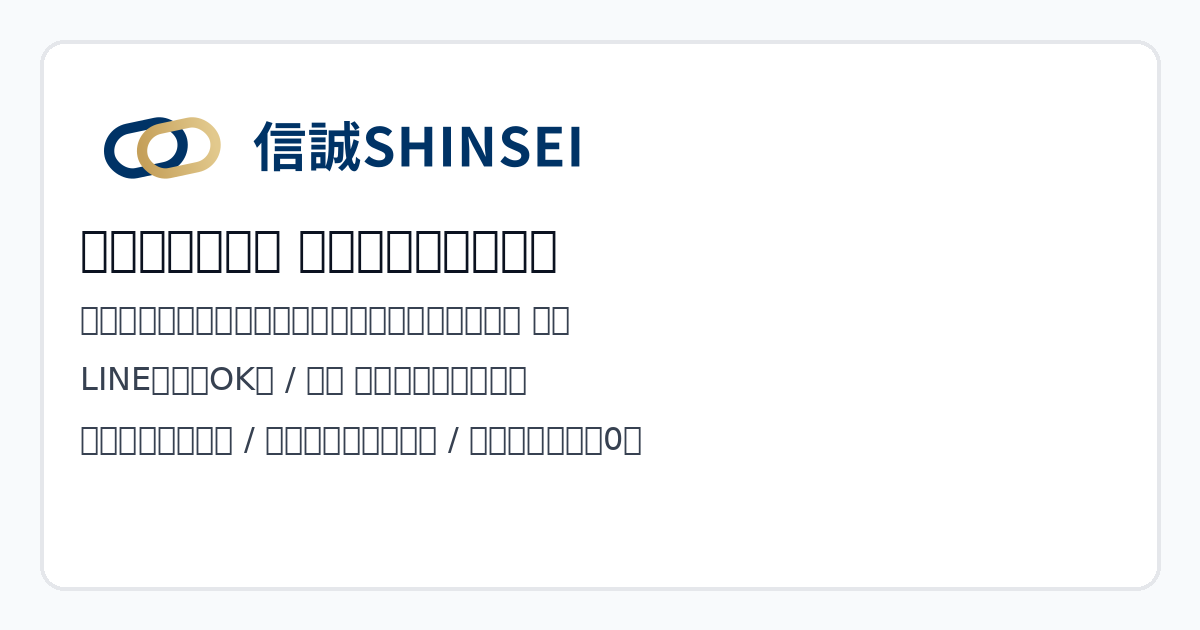
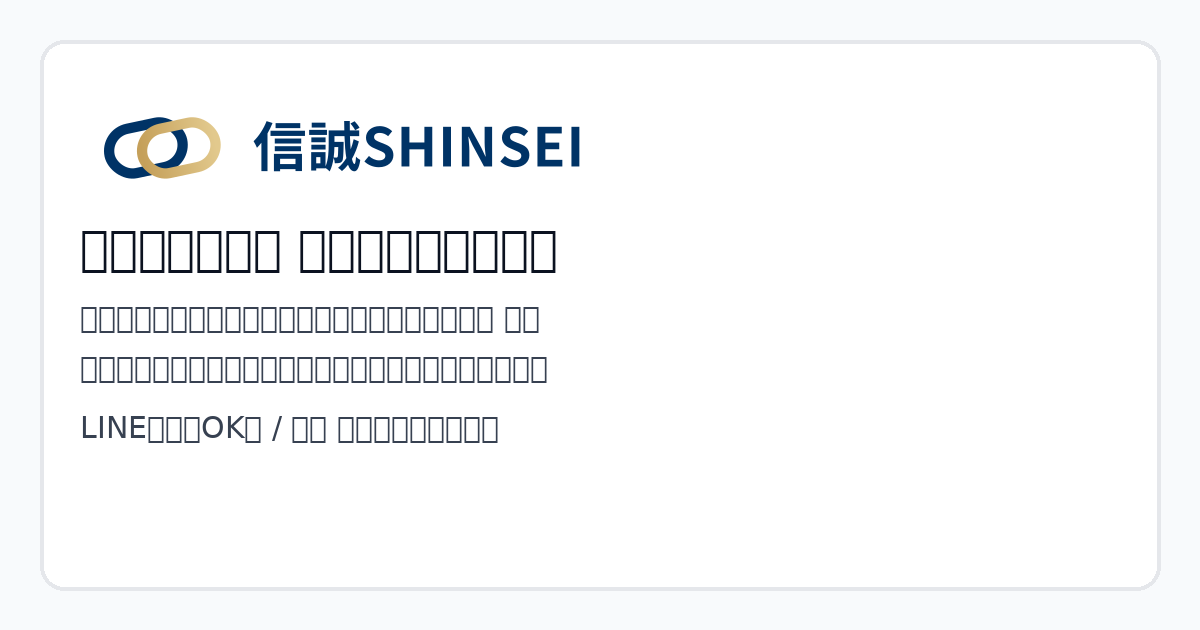
Add files via upload

Changed region(s): [[0.0617, 0.4825, 0.4625, 0.6333], [0.0617, 0.6635, 0.555, 0.7238]]

diff --git a/index.html b/index.html
@@ -61,22 +61,23 @@
 
   <main id="main">
 
-<section class="hero">
+<section class="hero hero-v24">
   <div class="container hero-inner">
     <div class="hero-copy">
       <p class="hero-kicker">全国対応（離島を除く） ・ 訪問日時は要相談</p>
       <h1>ご自宅の不要品<br>まとめて査定します</h1>
       <p class="hero-lead">ブランド品・時計・貴金属・古銭・記念硬貨・骨董 など。<br>買取できるか分からない物でも、まずはご相談ください。</p>
+      <p class="hero-note">ご相談は「品目・点数（だいたい）」だけでOKです。写真があれば、よりスムーズにご案内できます。</p>
 
       <div class="hero-actions">
         <a href="https://lin.ee/e8Pu3CO" target="_blank" rel="noopener noreferrer" class="btn btn-primary">LINEで無料相談（写真OK）</a>
         <a href="tel:09090185664" class="btn btn-outline">電話で相談（操作が不安な方）</a>
       </div>
 
-      <div class="trust-grid">
+      <div class="trust-grid trust-grid-v24">
         <div class="trust-pill">押し買いしません</div>
-        <div class="trust-pill">本人確認で法令遵守</div>
         <div class="trust-pill">出張費・査定料0円</div>
+        <div class="trust-pill">本人確認で法令遵守</div>
         <div class="trust-pill">その場で現金</div>
       </div>
     </div>
